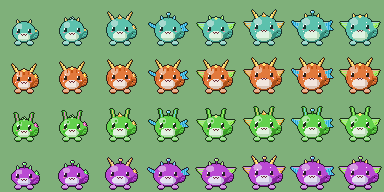
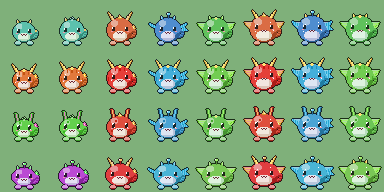
V1.12.0: 一個屬性升到底
- 屬性在蛋裡決定（蛋殼與斑點顯示），從幼年到高階都是同一系
- 身體顏色跟著屬性；各階段逐步長出屬性特徵
- 配對繼承父母屬性（5% 突變），基因碼加入屬性欄位並相容舊碼
- 舊存檔依照顧點數或基因補上屬性
- 單元測試 82 項、端對端測試 71 項

Claude-Session: https://claude.ai/code/session_01Asf9UbikJHEseEPnq7CYMU

diff --git a/index.html b/index.html
@@ -179,7 +179,7 @@ body.rm *{transition:none!important;animation:none!important}
    幻獸日記 Pixel Familiar — V1.3
    單一檔案：遊戲邏輯 + 程式化 16-bit 像素 sprite sheet 產生器
    ========================================================= */
-const VERSION='1.11.0';
+const VERSION='1.12.0';
 const SAVE_KEY='pixel-familiar-save',BACKUP_KEY='pixel-familiar-save-backup',LEGACY_KEY='pixel-familiar-v1',TIP_KEY='pixel-familiar-tip-closed';
 const W=128,H=112,CELL=48,PET_X=40,PET_Y=56;           // 場景邏輯解析度與角色格位置
 const $=id=>document.getElementById(id);
@@ -210,34 +210,45 @@ const SIDE_NAMES={nubs:['角','Nub'],horns:['角','Horn'],leaves:['葉','Leaf'],
 const ROUTE_NAMES={flame:['焰','Flame'],tide:['潮','Tide'],forest:['森','Forest'],earth:['岩','Terra'],bird:['翼','Sky'],elec:['雷','Volt'],metal:['鋼','Steel']};
 const CLASSIC_NAMES={juv:['露露獸','Lulu'],flame:['焰尾獸','Flametail'],tide:['潮靈獸','Tidewisp'],forest:['森語獸','Forestsong'],earth:['岩甲獸','Rockshell'],bird:['風翼獸','Windwing'],elec:['雷光獸','Sparkling'],metal:['鋼鎧獸','Steelguard']};
 const RARITY=['','普通','稀有','傳說'],STARS=['','★','★★','★★★'];
-function codeRoute(code){return code.startsWith('asc-')?code.slice(4):(ROUTES.includes(code)?code:null)}
-function speciesName(G,code,classic){const route=codeRoute(code),asc=code.startsWith('asc-');
- if(classic){const b=CLASSIC_NAMES[route||'juv'];return{name:(asc?'聖':'')+b[0],en:(asc?'Ascended ':'')+b[1]}}
+const EL_HUE={flame:[10,72],tide:[205,62],forest:[112,50],earth:[28,42,48],bird:[198,48,66],elec:[48,85,58],metal:[215,14,62]};   // 屬性的基本色相、飽和度、（亮度）
+const EGG_EL={flame:'火焰',tide:'流水',forest:'森林',earth:'大地',bird:'天空',elec:'雷電',metal:'鋼鐵'};
+/* 外觀代碼：juv[-屬性] 幼年／teen[-屬性] 少年／屬性 成年／asc-屬性 高階 */
+function parseCode(code){const[a,b]=String(code).split('-');if(a==='juv')return{lv:0,route:b||null};if(a==='teen')return{lv:1,route:b||null};if(a==='asc')return{lv:3,route:b||null};return{lv:2,route:ROUTES.includes(a)?a:null}}
+function codeRoute(code){return parseCode(code).route}
+function speciesName(G,code,classic){const{lv,route}=parseCode(code),asc=lv===3,full=lv>=2&&route;
+ if(classic){const b=CLASSIC_NAMES[full?route:'juv'];return{name:(asc?'聖':'')+b[0],en:(asc?'Ascended ':'')+b[1]}}
  const hn=HUE_NAMES.find(([m])=>G.hue<m),sn=SIDE_NAMES[G.side],pre=(asc?'聖':'')+(G.rarity===3?'星':''),epre=(asc?'Ascended ':'')+(G.rarity===3?'Star ':'');
- return route?{name:pre+hn[1]+sn[0]+ROUTE_NAMES[route][0]+'獸',en:`${epre}${hn[2]} ${sn[1]} · ${ROUTE_NAMES[route][1]}`}:{name:pre+hn[1]+sn[0]+'獸',en:`${epre}${hn[2]} ${sn[1]}`}}
-/* code：juv 幼年／teen 少年／flame|tide|forest 成年／asc-路線 高階 */
+ return full?{name:pre+hn[1]+sn[0]+ROUTE_NAMES[route][0]+'獸',en:`${epre}${hn[2]} ${sn[1]} · ${ROUTE_NAMES[route][1]}`}:{name:pre+hn[1]+sn[0]+'獸',en:`${epre}${hn[2]} ${sn[1]}`}}
+/* 同一個屬性一路長大：幼年＝屬性配色＋尾巴，少年＋頭冠，成年＋完整部位，高階＋翅膀與光芒 */
 function genomeForm(G,code='juv',classic=false){
- const asc=code.startsWith('asc-'),route=codeRoute(code),grow=code==='juv'?0:code==='teen'?1:asc?3:2;
- const ah=route==='flame'?40:route==='tide'?195:route==='forest'?95:route==='earth'?30:route==='bird'?205:route==='elec'?52:route==='metal'?210:G.acc,gold=G.rarity===3||asc,h=G.hue,s=G.sat;
+ const{lv,route}=parseCode(code),asc=lv===3,grow=lv;
+ const EH=EL_HUE[route];   // 身體顏色跟著屬性：每隻還是有些微差異
+ const h=EH?(EH[0]+((G.hue*7)%36)-18+360)%360:G.hue,s=EH?clamp(EH[1]+(G.sat-60)/3,8,95):G.sat;
+ const ah=route==='flame'?40:route==='tide'?195:route==='forest'?95:route==='earth'?30:route==='bird'?205:route==='elec'?52:route==='metal'?210:G.acc,gold=G.rarity===3||asc;
  const RA={earth:['#b8946a','#7a5a3a','#c8b8a0','#8a7a68'],bird:['#f4faff','#9ac4e8','#ffffff','#b0c8e0'],elec:['#ffe040','#e09a00','#fff3a0','#d8a020'],metal:['#d8e0e8','#8a98a8','#eef2f6','#a0aab8']}[route];
  const pal={o:hsl(h,35,13),b:hsl(h,s,56),d:hsl(h,s,38),l:hsl(h,s-5,75),feet:hsl(h,s-5,75),pat:hsl(h,s+10,42),
-  belly:G.pattern==='belly'?hsl(G.acc,60,86):hsl(G.bh,45,91),bellyD:G.pattern==='belly'?hsl(G.acc,50,74):hsl(G.bh,35,79),
+  belly:G.pattern==='belly'?hsl(G.acc,60,86):hsl(EH?h+20:G.bh,45,91),bellyD:G.pattern==='belly'?hsl(G.acc,50,74):hsl(EH?h+20:G.bh,35,79),
   horn:gold?'#ffe680':hsl(ah,70,76),hornD:gold?'#d9a441':hsl(ah,60,52),acc:gold&&!route?'#ffd34a':hsl(ah,80,68),accD:gold&&!route?'#e0902a':hsl(ah,70,48)};
+ if(EH&&EH[2]){pal.b=hsl(h,s,EH[2]);pal.d=hsl(h,s,EH[2]-18);pal.l=hsl(h,s,EH[2]+18);pal.feet=pal.l}
  if(RA){pal.acc=RA[0];pal.accD=RA[1];if(!gold){pal.horn=RA[2];pal.hornD=RA[3]}}
  const feat=[],add=f=>{if(f&&f!=='none'&&!feat.includes(f))feat.push(f)};
  let side=G.side,top=G.top,tail=G.tail;
- if(code==='teen'&&top==='none')top='tuft';
- if(route==='flame'){if(side==='nubs'||side==='none')side='horns';if(top==='none'||top==='tuft')top='crest';tail='flame'}
- if(route==='tide'){add('fins');if(top==='none'||top==='tuft')top='antenna';tail='fin'}
- if(route==='forest'){add('wings');if(top==='none'||top==='tuft')top='flower';tail='leaf'}
- if(route==='earth'){if(side==='nubs'||side==='none'||side==='leaves')side='horns';top='rockcrest';tail='club'}
- if(route==='bird'){add('wings');top='plume';tail='feather';if(side==='horns'||side==='nubs')side='none'}
- if(route==='elec'){top='zap';tail='bolt';add('sparkcheek')}
- if(route==='metal'){add('helm');if(side==='nubs'||side==='none'||side==='leaves')side='horns';tail='blade'}
+ if(lv===1&&!route&&top==='none')top='tuft';
+ const M={flame:{tail:'flame',top:'crest'},tide:{tail:'fin',top:'antenna'},forest:{tail:'leaf',top:'flower'},earth:{tail:'club',top:'rockcrest'},bird:{tail:'feather',top:'plume'},elec:{tail:'bolt',top:'zap'},metal:{tail:'blade',top:'helm'}}[route];
+ if(M){tail=M.tail;                                                   // 幼年期：屬性尾巴
+  if(lv>=1){if(M.top==='helm')add('helm');else if(['flame','tide','forest'].includes(route)?(top==='none'||top==='tuft'):true)top=M.top}   // 少年期：頭冠
+  if(lv>=2){                                                          // 成年期：完整部位
+   if(route==='flame'&&(side==='nubs'||side==='none'))side='horns';
+   if(route==='tide')add('fins');
+   if(route==='forest')add('wings');
+   if(route==='earth'&&(side==='nubs'||side==='none'||side==='leaves'))side='horns';
+   if(route==='bird'){add('wings');if(side==='horns'||side==='nubs')side='none'}
+   if(route==='elec')add('sparkcheek');
+   if(route==='metal'&&(side==='nubs'||side==='none'||side==='leaves'))side='horns'}}
  add(side);add(top);if(G.wings||asc)add('wings');
  if(G.pattern==='spots'||G.pattern==='stripes')add('pat-'+G.pattern);if(gold)add('sparkle');if(G.eyes==='big')add('bigeyes');
  const nm=speciesName(G,code,classic);
- return{name:nm.name,en:nm.en,rx:G.rx+grow,ry:G.ry+grow,feat,tail,pal,genome:G,code,classic}}
+ return{name:nm.name,en:nm.en,rx:G.rx+grow,ry:G.ry+grow,feat,tail,pal,genome:G,code,classic,route}}
 
 /* ---------------- 存檔（localStorage；資料檢查與遷移在 game-core.js） ---------------- */
 function parse(raw){if(!raw)return null;try{const o=JSON.parse(raw);return o&&typeof o==='object'?o:null}catch(e){return null}}
@@ -386,7 +397,7 @@ function drawCreature(F,fr){
 const EGG_FRAMES=[];for(let c=0;c<4;c++)for(const l of['L','0','R'])EGG_FRAMES.push('egg'+c+l);
 function drawEgg(name,C){
  const c=+name[3],lean=name[4],k=lean==='L'?-.11:lean==='R'?.11:0,g=grid(CELL,CELL),cx=24,cy=31,rx=10,ry=13;
- const spots=new Set(['19,23','20,23','19,24','20,24','28,29','29,29','28,30','29,30','30,30','21,35','22,35','26,20','27,20','16,30']);
+ const spots=new Set(['19,23','20,23','21,23','19,24','20,24','21,24','20,25','28,29','29,29','28,30','29,30','30,30','29,31','21,35','22,35','23,35','22,36','26,20','27,20','26,21','27,21','16,30','16,31','31,24','32,24','31,25','25,38','26,38','25,39']);
  for(let y=cy-ry-1;y<=cy+ry+1;y++){const off=(44-y)*k;for(let x=8;x<40;x++){
   const xx=x-off,ny=(y+.5-cy)/ry,rxe=rx*(1-.16*Math.max(0,-ny)),nx=(xx+.5-cx)/rxe;if(nx*nx+ny*ny>1)continue;
   let col=nx*.5+ny*.7>.55?C.shellD:((nx+.45)**2+(ny+.5)**2<.06?'#ffffff':C.shell);
@@ -405,11 +416,12 @@ const FCACHE={};
 function petKey(id,code){return`${id}|${code||'juv'}`}
 function eggKey(id){return id==='classic'?'egg':'egg|'+id}
 function formOf(key){if(FORMS[key])return FORMS[key];if(FCACHE[key])return FCACHE[key];
- if(key.startsWith('egg|')){const G=genomeFromId(key.slice(4));return FCACHE[key]={name:G.rarity===3?'閃著金光的蛋':G.rarity===2?'有點特別的蛋':'神秘的蛋',stage:0,genome:G}}
+ if(key.startsWith('egg|')){const G=genomeFromId(key.slice(4)),e=G.el?`${ROUTE_ICON[G.el]} ${EGG_EL[G.el]}之蛋`:'神秘的蛋';return FCACHE[key]={name:(G.rarity===3?'閃著金光的':G.rarity===2?'有點特別的':'')+e,stage:0,genome:G}}
  const[id,code]=key.split('|');return FCACHE[key]=genomeForm(genomeFromId(id),code||'juv',id==='classic')}
 function eggColors(key){if(!key.startsWith('egg|'))return{shell:'#fff1d0',shellD:'#e5c08c',spot:'#5cc2b0',spotD:'#3a8c8a',hole:'#5cc2b0'};
- const G=genomeFromId(key.slice(4));if(G.rarity===3)return{shell:'#fff3c0',shellD:'#e8c070',spot:'#ffd34a',spotD:'#e0902a',hole:hsl(G.hue,G.sat,56)};
- const P=genomeForm(G,'juv').pal;return{shell:hsl(G.hue,30,94),shellD:hsl(G.hue,28,80),spot:P.b,spotD:P.d,hole:P.b}}
+ const G=genomeFromId(key.slice(4)),E=genomeForm(G,G.el?'juv-'+G.el:'juv').pal,eh=EL_HUE[G.el]||[G.hue,30];   // 蛋殼與斑點＝屬性顏色
+ if(G.rarity===3)return{shell:'#fff3c0',shellD:'#e8c070',spot:E.b,spotD:E.d,hole:E.b};
+ return{shell:hsl(eh[0],Math.min(60,eh[1]),90),shellD:hsl(eh[0],Math.min(50,eh[1]),74),spot:E.b,spotD:E.d,hole:E.b}}
 function sheet(key){return SHEETS[key]||buildSheet(key)}
 function buildSheet(key){
  const isEgg=key.startsWith('egg'),EC=isEgg?eggColors(key):null,F=isEgg?null:formOf(key);
@@ -738,7 +750,7 @@ function renderUI(){
  $('coins').textContent=s.coins;
  const F=formOf(formKey()),rar=F.genome&&F.genome.rarity>1&&!F.classic?` · ${STARS[F.genome.rarity]}${RARITY[F.genome.rarity]}`:'',tierN=PC.stepTier(s);
  $('petname').textContent=s.hatched?`${s.name}　Lv.${lvl()}${tierN?' '+'✦'.repeat(Math.min(5,tierN)):''}`:F.name;
- $('stageText').textContent=!s.hatched?`輕點蛋 5 下來孵化（${s.eggTaps}/5）${F.genome?' · 會孵出什麼新物種呢？':''}`:`${STAGE_NAME[s.stage]} · ${F.name}${rar} · 第 ${dayCount()} 天`;
+ $('stageText').textContent=!s.hatched?`輕點蛋 5 下來孵化（${s.eggTaps}/5）${F.genome&&F.genome.el?' · 會孵出'+ROUTE_LABEL[F.genome.el]+'的新物種':''}`:`${s.route?ROUTE_ICON[s.route]+ROUTE_LABEL[s.route]+' · ':''}${STAGE_NAME[s.stage]} · ${F.name}${rar} · 第 ${dayCount()} 天`;
  $('growText').textContent=growLine();
  $('stepInfo').textContent=`🍎 食物 ${s.inv.food} · 🌱 種子 ${s.inv.seeds}${s.inv.candy?' · 🍬 '+s.inv.candy:''}${s.inv.potion?' · 🧪 '+s.inv.potion:''} · 👟 今日 ${fmtN(s.steps.days[PC.dayKey(Date.now())]||0)} 步 · ⚔ 今日冒險 ${s.daily.adv}${s.eggs.length?' · 🧺 蛋 '+s.eggs.length:''}`;
  for(const[k]of STATS){const v=s.hatched?s[k]:0;$('sv-'+k).textContent=s.hatched?Math.round(v)+'%':'--';$('sb-'+k).style.width=v+'%';$('st-'+k).classList.toggle('low',s.hatched&&v<20)}
@@ -782,7 +794,7 @@ function helpDialog(){const C=CONFIG;openModal('❔ 遊戲說明',`
 </ul>
 <p><b>時間：</b>每小時飽食 −2、心情 −1、清潔 −1。離線最多計算 12 小時。數值為 0 只會讓牠難過，不會死掉。</p>
 <p><b>成長：</b>幼年期 → 少年期（孵化 12 小時＋100 XP）→ 成年期（48 小時＋350 XP）→ 高階（7 天＋1000 XP＋特殊事件）。</p>
-<p><b>成年分支（7 系）：</b>🔥 焰：冒險、戰鬥勝利；💧 潮：餵食、摸摸；🌿 森：種植收成、發現新地點；🪨 土：走路步數；🐦 鳥：頂球進球；⚡ 電：戰鬥中蓄力、羈絆之力；⚙ 金：洗澡、清大便和果核。點數最高的就是牠的路線，成年前會看到模糊的提示。</p>
+<p><b>屬性（7 系）：</b>🔥焰、💧潮、🌿森、🪨土、🐦鳥、⚡電、⚙金。<b>屬性在蛋裡就決定</b>（看蛋上斑點的顏色和蛋的名字），從孵化一路長到高階都是同一系，越長大屬性特徵越明顯。配對生的寶寶會繼承爸爸或媽媽的屬性，偶爾會突變。</p>
 <p><b>屬性相剋（屬性技 ×1.5）：</b>🔥剋🌿⚙、💧剋🔥🪨、🌿剋💧🪨、🪨剋🔥⚡⚙、🐦剋🌿🪨、⚡剋💧🐦、⚙剋🐦🌿。</p>
 <p><b>🌱 家園：</b>種子種下 ${CONFIG.farm.growHours} 小時後收成，食物 +${CONFIG.farm.food}、經驗 +${CONFIG.farm.xp}、🌿 森 +${CONFIG.farm.forest}。</p>
 <p><b>🪺 小窩：</b>點院子裡的小窩可以升級（4 級，最多住 4 隻）。迎接新蛋時，小窩有空位的話，現在的夥伴會搬進去休息，不用告別。</p>
@@ -800,12 +812,11 @@ function helpDialog(){const C=CONFIG;openModal('❔ 遊戲說明',`
 function codexDialog(){
  const dex=s.dex.slice().reverse();
  const cards=dex.length?dex.map(e=>{const k=petKey(e.id,formCode(e.stage,e.route)),F=formOf(k),G=F.genome,cur=e.id===gidOf(s)&&s.hatched;
-  return`<div class="card"><canvas data-key="${k}" width="48" height="48"></canvas><b>${esc(F.name)}</b><div class="small">${esc(F.en)}</div>
+  return`<div class="card"><canvas data-key="${k}" width="48" height="48"></canvas><b>${e.route?ROUTE_ICON[e.route]+' ':''}${esc(F.name)}</b><div class="small">${esc(F.en)}</div>
   <div>${F.classic?'經典種':STARS[G.rarity]+' '+RARITY[G.rarity]} · ${STAGE_NAME[e.stage]||'幼年期'}${e.route?' '+ROUTE_ICON[e.route]:''}</div><div class="small">${cur?'🏠 現在的夥伴：':'回憶：'}${esc(e.petName||'')} · ${fmtTime(e.at).split(' ')[0]}</div></div>`}).join('')
   :'<p class="small">還沒有任何物種。孵化第一顆蛋吧！</p>';
  const hint=s.hatched?PC.tendencyHint(s):null;
- const lean=hint?`<p style="margin-top:12px"><b>成長的預感</b>（成年期時決定路線，外觀特色會保留）</p><p>「${esc(hint)}」</p>
-  <p class="small">🔥 焰：冒險戰鬥　💧 潮：餵食摸摸　🌿 森：種植、發現新地點　🪨 土：走路　🐦 鳥：頂球進球　⚡ 電：蓄力、羈絆之力　⚙ 金：洗澡、清理</p>`:'';
+ const lean=hint?`<p style="margin-top:12px"><b>${ROUTE_ICON[s.route]} ${ROUTE_LABEL[s.route]}的成長</b>：「${esc(hint)}」</p><p class="small">屬性在蛋裡就決定，從幼年到高階都是同一系：幼年期有屬性配色和尾巴 → 少年期長出頭冠 → 成年期長出完整特徵 → 高階再加上翅膀和光芒。</p>`:'';
  const n=s.dex.length,rare=s.dex.filter(e=>e.id!=='classic'&&genomeFromId(e.id).rarity>1).length;
  openModal('📖 物種圖鑑',`<p class="small">每顆蛋都會隨機孵出獨一無二的新物種（約 75% 普通、20% 稀有、5% 傳說）。已發現 <b>${n}</b> 種，其中稀有以上 <b>${rare}</b> 種。</p><div class="codex">${cards}</div>${lean}
  <p class="small" style="margin-top:10px">想收集更多？選單 →「🥚 迎接新的蛋」，或到「💞 配對」。</p>`);

diff --git a/game-core.js b/game-core.js
@@ -97,15 +97,18 @@ function makeGenome(seed) {
   const G = { seed, rarity, hue, sat: 45 + Math.floor(r() * 30), acc: (hue + 140 + Math.floor(r() * 80)) % 360, bh: (hue + Math.floor(r() * 60) - 30 + 360) % 360,
     rx: 10 + Math.floor(r() * 3), ry: 9 + Math.floor(r() * 3), side: pick(G_SIDE), top: pick(G_TOP), tail: pick(G_TAIL), pattern: pick(G_PAT), eyes: pick(G_EYE), wings: r() < .15 };
   if (rarity >= 2 && G.pattern === 'none') G.pattern = ['spots', 'stripes', 'belly'][Math.floor(r() * 3)];
+  G.el = EL_LIST[Math.floor(rng((seed ^ 0x5bd1e995) >>> 0)() * EL_LIST.length)];   // V1.12：蛋的屬性（另一組亂數，不影響外觀）
   return G;
 }
-const CLASSIC_G = { rarity: 1, hue: 168, sat: 45, acc: 42, bh: 130, rx: 11, ry: 10, side: 'nubs', top: 'none', tail: 'small', pattern: 'none', eyes: 'open', wings: false };
-function encodeGenome(G) { return [G.rarity, G.hue, G.sat, G.acc, G.bh, G.rx, G.ry, G_SIDE.indexOf(G.side), G_TOP.indexOf(G.top), G_TAIL.indexOf(G.tail), G_PAT.indexOf(G.pattern), G_EYE.indexOf(G.eyes), G.wings ? 1 : 0].join('.'); }
-const G_LIM = [[1, 3], [0, 359], [30, 90], [0, 359], [0, 359], [9, 13], [8, 12], [0, 5], [0, 5], [0, 5], [0, 4], [0, 1], [0, 1]];
+const EL_LIST = ['flame', 'tide', 'forest', 'earth', 'bird', 'elec', 'metal'];
+const CLASSIC_G = { rarity: 1, hue: 168, sat: 45, acc: 42, bh: 130, rx: 11, ry: 10, side: 'nubs', top: 'none', tail: 'small', pattern: 'none', eyes: 'open', wings: false, el: 'tide' };
+function encodeGenome(G) { return [G.rarity, G.hue, G.sat, G.acc, G.bh, G.rx, G.ry, G_SIDE.indexOf(G.side), G_TOP.indexOf(G.top), G_TAIL.indexOf(G.tail), G_PAT.indexOf(G.pattern), G_EYE.indexOf(G.eyes), G.wings ? 1 : 0, Math.max(0, EL_LIST.indexOf(G.el))].join('.'); }
+const G_LIM = [[1, 3], [0, 359], [30, 90], [0, 359], [0, 359], [9, 13], [8, 12], [0, 5], [0, 5], [0, 5], [0, 4], [0, 1], [0, 1], [0, 6]];
 function decodeGenome(c) {
   const a = String(c).split('.').map(Number);
-  if (a.length !== 13 || a.some((v, i) => !Number.isInteger(v) || v < G_LIM[i][0] || v > G_LIM[i][1])) return null;
-  return { rarity: a[0], hue: a[1], sat: a[2], acc: a[3], bh: a[4], rx: a[5], ry: a[6], side: G_SIDE[a[7]], top: G_TOP[a[8]], tail: G_TAIL[a[9]], pattern: G_PAT[a[10]], eyes: G_EYE[a[11]], wings: !!a[12] };
+  if ((a.length !== 13 && a.length !== 14) || a.some((v, i) => !Number.isInteger(v) || v < G_LIM[i][0] || v > G_LIM[i][1])) return null;
+  let el = EL_LIST[a[13]]; if (a.length === 13) { let h = 0; for (const ch of String(c)) h = (h * 31 + ch.charCodeAt(0)) >>> 0; el = EL_LIST[h % EL_LIST.length]; }   // V1.11 以前的 13 碼基因：用雜湊決定屬性
+  return { rarity: a[0], hue: a[1], sat: a[2], acc: a[3], bh: a[4], rx: a[5], ry: a[6], side: G_SIDE[a[7]], top: G_TOP[a[8]], tail: G_TAIL[a[9]], pattern: G_PAT[a[10]], eyes: G_EYE[a[11]], wings: !!a[12], el };
 }
 function breedGenome(A, B, r = Math.random) {
   const pick = (a, b) => r() < .5 ? a : b, mut = .08, any = arr => arr[Math.floor(r() * arr.length)];
@@ -114,6 +117,7 @@ function breedGenome(A, B, r = Math.random) {
     sat: Math.round(clamp(pick(A.sat, B.sat) + (r() - .5) * 10, 40, 80)), acc: pick(A.acc, B.acc), bh: pick(A.bh, B.bh), rx: pick(A.rx, B.rx), ry: pick(A.ry, B.ry),
     side: r() < mut ? any(G_SIDE) : pick(A.side, B.side), top: r() < mut ? any(G_TOP) : pick(A.top, B.top), tail: r() < mut ? any(G_TAIL) : pick(A.tail, B.tail),
     pattern: r() < mut ? any(G_PAT) : pick(A.pattern, B.pattern), eyes: pick(A.eyes, B.eyes), wings: r() < mut ? r() < .5 : pick(A.wings, B.wings) };
+  G.el = r() < .05 ? any(EL_LIST) : pick(A.el || 'tide', B.el || 'tide');   // 繼承爸爸或媽媽的屬性，5% 突變
   const best = Math.max(A.rarity, B.rarity), q = r();
   G.rarity = q < (best === 3 ? .15 : best === 2 ? .08 : .05) ? 3 : q < (best >= 2 ? .45 : .25) ? 2 : 1;
   if (G.rarity >= 2 && G.pattern === 'none') G.pattern = any(['spots', 'stripes', 'belly']);
@@ -131,7 +135,8 @@ function genomeFromId(id) {
 function okId(id) { return typeof id === 'string' && (id === 'classic' || /^g:\d+$/.test(id) || (/^x:[\d.]+$/.test(id) && !!decodeGenome(id.slice(2)))); }
 /* 角色外觀代碼：juv / teen / flame|tide|forest / asc-<路線> */
 function formCode(stage, route) {
-  if (stage === 'adolescent') return 'teen';
+  if (stage === 'adolescent') return route ? 'teen-' + route : 'teen';
+  if (stage === 'juvenile' && route) return 'juv-' + route;
   if (stage === 'adult' && route) return route;
   if (stage === 'ascended' && route) return 'asc-' + route;
   return 'juv';
@@ -182,7 +187,7 @@ function sanitize(o, now = Date.now()) {
   if (!r.hatched) { r.stage = 'egg'; r.route = null; r.xp = 0; }
   else if (!legacy && STAGES.includes(o.stage) && o.stage !== 'egg') r.stage = o.stage;
   else r.stage = route ? 'adult' : 'juvenile';                 // 舊版已進化的視為成年
-  if ((r.stage === 'adult' || r.stage === 'ascended') && !r.route) r.stage = 'adolescent';
+  // 已孵化但還沒有屬性的舊存檔：等路線點數讀完後再決定（見下方）
   const pa = o.path && typeof o.path === 'object' ? o.path : null;
   if (pa) for (const k of ROUTES) r.path[k] = int(pa[k], 0, 0, 1e7);
   else if (legacy && o.care && typeof o.care === 'object') {   // 舊版照顧次數 → 路線點數（近似）
@@ -218,6 +223,7 @@ function sanitize(o, now = Date.now()) {
   if (st.days && typeof st.days === 'object') for (const k in st.days) if (/^\d{4}-\d\d-\d\d$/.test(k)) r.steps.days[k] = int(st.days[k], 0, 0, 200000);
   if (legacy && !pa) r.path.earth = Math.floor(r.steps.total / CONFIG.steps.forestEvery);
   const av = o.adv && typeof o.adv === 'object' ? o.adv : {};
+  if (r.hatched && !r.route) r.route = ROUTES.some(k => r.path[k] > 0) ? pickRoute(r) : (genomeFromId(gidOf(r)).el || 'tide');
   r.adv = { stage: int(av.stage, 1, 1, 999), wins: int(av.wins, 0, 0, 1e7), losses: int(av.losses, 0, 0, 1e7) };
   r.dex = Array.isArray(o.dex) ? o.dex.filter(e => e && typeof e === 'object').slice(-200).map(e => ({
     id: okId(e.id) ? e.id : (Number.isInteger(e.seed) ? 'g:' + e.seed : 'classic'),
@@ -387,7 +393,7 @@ function checkStages(st, now = Date.now()) {
     const q = stageReq(st, now);
     if (!q || !q.ageOk || !q.xpOk || !q.eventOk) break;
     const from = st.stage;
-    if (q.next === 'adult') st.route = pickRoute(st);
+    if (q.next === 'adult' && !st.route) st.route = pickRoute(st);
     st.stage = q.next;
     out.push({ from, to: st.stage, route: st.route });
     journal(st, now, { adolescent: '長成少年期了！', adult: `進化成成年期（${ROUTE_CH[st.route]}系）！`, ascended: '達到高階型態！' }[st.stage]);
@@ -396,15 +402,15 @@ function checkStages(st, now = Date.now()) {
   return out;
 }
 function tendencyHint(st) {
-  if (st.stage === 'adult' || st.stage === 'ascended') return null;
-  const p = st.path; if (ROUTES.every(k => !p[k])) return '還看不出牠會往哪個方向長大';
-  return { flame: '尾巴尖好像暖暖的…', tide: '眼睛像水面一樣閃閃發亮…', forest: '身上有淡淡的青草香…', earth: '腳步越來越穩，身上沾著泥土味…', bird: '常常抬頭看天空，好像想飛…', elec: '摸牠的時候會劈啪一下…', metal: '身體摸起來越來越硬，亮晶晶的…' }[pickRoute(st)];
+  if (!st.hatched || !st.route) return null;
+  return { flame: '尾巴尖好像暖暖的…', tide: '眼睛像水面一樣閃閃發亮…', forest: '身上有淡淡的青草香…', earth: '腳步越來越穩，身上沾著泥土味…', bird: '常常抬頭看天空，好像想飛…', elec: '摸牠的時候會劈啪一下…', metal: '身體摸起來越來越硬，亮晶晶的…' }[st.route];
 }
 
 /* ---------------- 孵化 ---------------- */
 function hatch(st, now = Date.now()) {
   st.hatched = true; st.eggTaps = 0; st.hatchedAt = now; st.lastTick = now; st.stage = 'juvenile';
-  const id = gidOf(st); if (!st.dex.find(x => x.id === id)) st.dex.push({ id, route: null, stage: 'juvenile', petName: st.name, at: now });
+  st.route = genomeFromId(gidOf(st)).el || 'tide';   // V1.12：屬性在蛋裡就決定，一路長到高階
+  const id = gidOf(st); if (!st.dex.find(x => x.id === id)) st.dex.push({ id, route: st.route, stage: 'juvenile', petName: st.name, at: now });
   journal(st, now, '孵化了！');
 }
 
@@ -456,7 +462,7 @@ const AREA_ROUTE = [null, 'tide', 'flame', 'forest', 'earth', 'bird', 'elec', 'm
 function foeFor(n) {
   const seed = (Math.imul(n, 2654435761) ^ 0x9e3779b9) >>> 0, G = makeGenome(seed), boss = n % 5 === 0;
   if (boss) G.rarity = 3;
-  const area = AREA_ROUTE[Math.min(AREA_ROUTE.length - 1, Math.floor((n - 1) / 5))], route = n < 4 ? null : (area && (seed >>> 8) % 10 < 7 ? area : ROUTES[seed % ROUTES.length]), stage = route ? 'adult' : (n >= 2 ? 'adolescent' : 'juvenile');
+  const area = AREA_ROUTE[Math.min(AREA_ROUTE.length - 1, Math.floor((n - 1) / 5))], route = area && (seed >>> 8) % 10 < 7 ? area : ROUTES[seed % ROUTES.length], stage = n >= 4 ? 'adult' : (n >= 2 ? 'adolescent' : 'juvenile');
   const lvl = Math.max(1, Math.round(n * .9) + (boss ? 2 : 0));
   return { id: 'x:' + encodeGenome(G), route, stage, level: lvl, boss };
 }
@@ -664,7 +670,7 @@ function breed(st, friend, now = Date.now(), r = Math.random) {
 }
 
 const API = { CONFIG, ROUTES, STAGES, ROUTE_EVENT, EVENT_TEXT, clamp, num, chars, dayKey, hourIn, level, rng, makeGenome, CLASSIC_G, encodeGenome, decodeGenome, breedGenome,
-  G_SIDE, G_TOP, G_TAIL, G_PAT, G_EYE, genomeOfSeed, gidOf, genomeFromId, okId, formCode, fresh, sanitize, applyTime, ageHours, journal, claimDaily, canGather, gather,
+  G_SIDE, G_TOP, G_TAIL, G_PAT, G_EYE, EL_LIST, genomeOfSeed, gidOf, genomeFromId, okId, formCode, fresh, sanitize, applyTime, ageHours, journal, claimDaily, canGather, gather,
   act, pet, bondTier, discover, pickRoute, specialDone, stageReq, checkStages, tendencyHint, hatch, creditSteps, stepTier,
   plotState, plant, harvest, buySeed, buyDecor, placeDecor, buyItem, useCandy,
   canAct, addCore, clearCore, isRotten, finishBallGame, snapshotPet, sanitizePet, denCap, petCount, upgradeDen, moveToDen, swapPet, GOALS, goalsFor, ensureGoals, track, claimGoal,

diff --git a/sw.js b/sw.js
@@ -1,6 +1,6 @@
 // 幻獸日記 Service Worker — 離線快取
 // 更新遊戲時，請把 VERSION 改成新版本號，iPhone 才會換成新檔案。
-const VERSION = 'pf-1.11.0';
+const VERSION = 'pf-1.12.0';
 const CORE = ['./', './index.html', './game-core.js'];
 const EXTRA = ['./manifest.webmanifest', './icon-180.png', './icon-192.png', './icon-512.png'];
 

diff --git a/tests/e2e_iphone.py b/tests/e2e_iphone.py
@@ -63,7 +63,8 @@ async def main():
         await p.screenshot(path=f'{OUT}/01_egg.png')
         s = await st(p); ok('新存檔：蛋、金幣 50+每日 10、食物 3+1', s['stage'] == 'egg' and s['coins'] == 60 and s['inv']['food'] == 4, (s['coins'], s['inv']))
         await hatch(p, '露米')
-        s = await st(p); ok('孵化並命名', s['hatched'] and s['stage'] == 'juvenile' and s['name'] == '露米')
+        s = await st(p); ok('孵化並命名、孵化時就有屬性', s['hatched'] and s['stage'] == 'juvenile' and s['name'] == '露米' and s['route'] in ['flame','tide','forest','earth','bird','elec','metal'], s['route'])
+        stx = await p.inner_text('#stageText'); ok('畫面顯示屬性', any(k in stx for k in ['焰系','潮系','森系','土系','鳥系','電系','金系']), stx)
         await p.reload(); await p.wait_for_timeout(700); s = await st(p); ok('刷新後保留', s['hatched'] and s['name'] == '露米')
         ok('每日禮物刷新後不重複', s['coins'] == 60, s['coins'])
         # ---------- 2. 照顧行為 ----------
@@ -109,12 +110,12 @@ async def main():
         await p.screenshot(path=f'{OUT}/05_evolving.png'); await p.wait_for_timeout(3500)
         ok('12h + 100 XP：少年期', (await st(p))['stage'] == 'adolescent')
         await p.screenshot(path=f'{OUT}/06_teen.png')
-        await p.evaluate("PF.debug.set({xp:400,path:{flame:3,tide:3,forest:3}})"); await p.evaluate("PF.debug.age(36)"); await p.wait_for_timeout(5500)
-        s = await st(p); ok('48h + 350 XP，平手 → 潮系（tide 優先）', s['stage'] == 'adult' and s['route'] == 'tide', (s['stage'], s['route']))
+        el0 = (await st(p))['route']; await p.evaluate("PF.debug.set({xp:400,path:{flame:99,tide:0,forest:0}})"); await p.evaluate("PF.debug.age(36)"); await p.wait_for_timeout(5500)
+        s = await st(p); ok('48h + 350 XP → 成年期，屬性維持孵化時的那一系', s['stage'] == 'adult' and s['route'] == el0, (s['stage'], s['route'], el0))
         await p.screenshot(path=f'{OUT}/07_adult.png', full_page=True)
         await p.evaluate("PF.debug.set({xp:1200})"); await p.evaluate("PF.debug.age(200)"); await p.wait_for_timeout(1500)
         ok('沒有特殊事件不能高階', (await st(p))['stage'] == 'adult')
-        ok('畫面顯示還缺「月泉」事件', '月泉' in await p.inner_text('#growText'), await p.inner_text('#growText'))
+        evname = await p.evaluate("PF.PC.EVENT_TEXT[PF.PC.ROUTE_EVENT[PF.state.route]]"); ok('畫面顯示還缺該屬性的特殊事件', evname in await p.inner_text('#growText'), await p.inner_text('#growText'))
         # 日記
         await p.click('#bMenu'); await p.click('#mJournal'); await p.wait_for_timeout(300); txt = await p.inner_text('#sheet')
         ok('日記自動記錄孵化與進化', '孵化' in txt and '少年期' in txt and '成年期' in txt); await p.screenshot(path=f'{OUT}/08_journal.png'); await closeall(p)

diff --git a/docs/TESTING.md b/docs/TESTING.md
@@ -1,9 +1,9 @@
-# 測試報告（V1.11.0，2026-11-16）
+# 測試報告（V1.12.0，2026-11-16）
 
 分成三類（依 GDD 第 8 節第 10 點）。
 
 ## A. 已程式化驗證 ✅
-**規則核心單元測試** `node tests/core.test.js` → **77/77 通過**
+**規則核心單元測試** `node tests/core.test.js` → **82/82 通過**
 - 全新存檔、孵化、JSON 往返不變（冪等）
 - 每個行為的扣費與加值；隨機操作 2,000 次後沒有負數
 - 洗澡與撫摸的 30 分鐘冷卻，重新載入存檔後仍有效
@@ -19,13 +19,14 @@
 - 果核：發臭時間與心情下降、最多 6 顆；canAct 不改變狀態；頂球結算與最佳紀錄
 - 大便：40 分鐘後出現、3 分鐘後發臭、離線也會發生；寵物馬桶自動處理
 - 睡覺只能在室內；小圓床（新舊存檔）；藥水；蓄力 ×2；羈絆之力倍率；預估傷害與實際平均一致
+- 屬性固定：孵化就有屬性、成年和高階不會變、7 系的蛋分布平均、加上屬性不改變舊蛋外觀、配對時繼承、新舊基因碼都能讀、舊存檔補上屬性
 - 7 系：相剋表沒有缺漏也沒有互剋、四種新點數來源、7 條路線都選得到、新高階條件、新區域怪獸分布、舊存檔相容
 - 小窩：升級、容量、搬入、交換、休息時數值凍結、亂碼過濾
 - 商店：買家具扣錢、不能重複買、錢不夠不能買；擺放與收起；亂碼存檔過濾；道具與星星糖
 - 每日目標：每天 3 個且同一天固定、完成才能領、只能領一次、時間倒退不重置、亂碼過濾
 - V1.2、V1.5 舊存檔遷移；亂碼存檔會被安全修正；基因碼可以還原；台北時區換日
 
-**端對端測試** `python3 tests/e2e_iphone.py`（Playwright＋Chromium，模擬 iPhone 13、iPhone SE）→ **70/70 通過，沒有 JavaScript 錯誤**
+**端對端測試** `python3 tests/e2e_iphone.py`（Playwright＋Chromium，模擬 iPhone 13、iPhone SE）→ **71/71 通過，沒有 JavaScript 錯誤**
 - 孵化、命名、刷新後保留；每日禮物刷新後不重複
 - 四種照顧行為；冷卻不能用重新整理繞過
 - 離線 2h／24h／7d；四階段成長與進化動畫；日記

diff --git a/docs/CHANGELOG.md b/docs/CHANGELOG.md
@@ -1,5 +1,24 @@
 # 更新紀錄 Changelog
 
+## V1.12.0（2026-11-16）— 一個屬性升到底
+- **屬性在蛋裡就決定**，從孵化一路長到高階都是同一系，照顧方式不再改變屬性。
+  - 蛋的殼色和斑點顯示屬性，名字也會寫出來，例如「🔥 火焰之蛋」「⚡ 雷電之蛋」。
+  - 7 系的蛋出現機率大致相同（7,000 顆抽樣測試，每系約 1/7）。
+- **身體顏色跟著屬性走**：火紅、水藍、森綠、土褐、天空淡藍、雷黃、鋼灰；同屬性的每隻仍有些微色差，並保留各自的耳角、花紋、體型與稀有度。
+- **越長越像該屬性**：
+  - 幼年期：屬性配色與屬性尾巴
+  - 少年期：長出屬性頭冠
+  - 成年期：完整特徵（鰭、翅膀、頭盔、電氣臉頰等），名字加上屬性字
+  - 高階：再加上翅膀與光芒
+- **配對**：寶寶繼承爸爸或媽媽其中一方的屬性，有 5% 機率突變。基因碼多一碼記錄屬性；舊的 13 碼配對碼仍然可以讀。
+- **舊存檔**：
+  - 已成年的屬性不變。
+  - 還沒成年的，依之前累積的照顧點數決定；完全沒有點數的，由基因決定。
+- 戰鬥中幼年期也有屬性；1～3 關的野生怪獸也有屬性。
+- 路線點數仍會記錄，但只用來處理舊存檔，不再決定屬性。
+- 單元測試 82 項、端對端測試 71 項。
+
+
 ## V1.11.0（2026-11-16）— 新增土、鳥、電、金四種屬性（共 7 系）
 - **新進化路線**（成年時看哪一系點數最高）：
   - 🪨 土系「岩甲獸」：走路步數（每 2,000 步 +1，原本算進森系）→ 岩石頭冠、岩石錘尾巴

diff --git a/README.md b/README.md
@@ -1,4 +1,4 @@
-# 🐲 幻獸日記 Pixel Familiar（V1.11.0）
+# 🐲 幻獸日記 Pixel Familiar（V1.12.0）
 
 原創 16-bit 像素風奇幻生物養成遊戲（電子雞 Tamagotchi 類型）。每顆蛋都會隨機孵出獨一無二的新物種。iPhone Safari 優先。
 
@@ -18,7 +18,7 @@ art/random-species-gallery.png  24 種隨機物種範例（上：幼年期，下
 docs/                 更新紀錄、路線圖、測試清單
 tests/core.test.js    規則單元測試（node tests/core.test.js）
 tests/e2e_iphone.py   端對端測試（Playwright，模擬 iPhone）
-art/seven-elements.png 土、鳥、電、金四系的成年與高階外觀
+art/evolution-lines.png 七系進化線（蛋 → 幼年 → 少年 → 成年 → 高階）
 art/battle-arenas.png  5 種戰鬥場地
 art/room-examples.png  小屋裝飾範例
 art/stages-gallery.png 各成長階段外觀（幼年／少年／成年三路線／高階三路線）
@@ -27,7 +27,7 @@ art/stages-gallery.png 各成長階段外觀（幼年／少年／成年三路線
 所有遊戲檔案都在**倉庫根目錄**，不再有 V1.2 的 `www/` 路徑問題。
 
 ## 🧪 測試狀態
-見 [docs/TESTING.md](docs/TESTING.md)。規則單元測試 77/77、端對端測試 70/70 通過（Chromium 模擬 iPhone），**尚未在真實 iPhone Safari 上驗收**。
+見 [docs/TESTING.md](docs/TESTING.md)。規則單元測試 82/82、端對端測試 71/71 通過（Chromium 模擬 iPhone），**尚未在真實 iPhone Safari 上驗收**。
 
 ## 🗺 後續規劃
 見 [docs/ROADMAP.md](docs/ROADMAP.md)、[docs/CHANGELOG.md](docs/CHANGELOG.md)。

diff --git a/docs/GDD-NOTES.md b/docs/GDD-NOTES.md
@@ -36,3 +36,4 @@
 16. **羈絆之力**：「危險」的定義是敵人用牠最強、而且可以使用的招式，預估傷害 ≥ 我方目前 HP。
 17. **7 系屬性**：GDD 只有焰、潮、森三條路線，土、鳥、電、金是你追加的。平手時依序比「潮 > 森 > 焰 > 土 > 鳥 > 電 > 金」。
 18. **步數改算土系**：原本每 2,000 步 +1 森系，改成 +1 土系，讓森系回到 GDD 原本的「種植收成、探索發現」。
+19. **屬性固定（V1.12，依你的要求，取代 GDD「成年時依照顧點數分支」的設計）**：屬性在蛋裡決定，一路長到高階。高階條件仍然是各屬性的特殊事件。

diff --git a/docs/ROADMAP.md b/docs/ROADMAP.md
@@ -15,7 +15,7 @@
 
 ## 二、進化系統
 
-> V1.11 起共 7 系：🔥焰 💧潮 🌿森 🪨土 🐦鳥 ⚡電 ⚙金（詳見 CHANGELOG）。
+> V1.11 起共 7 系：🔥焰 💧潮 🌿森 🪨土 🐦鳥 ⚡電 ⚙金。V1.12 起屬性在蛋裡決定、一路長到高階（下方舊圖中依照顧方式分支的設計已經不再使用）。
 V1.4 起每顆蛋由隨機「基因」決定外觀（體色、耳角、頭頂、尾巴、花紋、眼睛、翅膀、稀有度），
 進化時保留基因並依路線加上新部位。下圖為經典種的路線：
 ```
